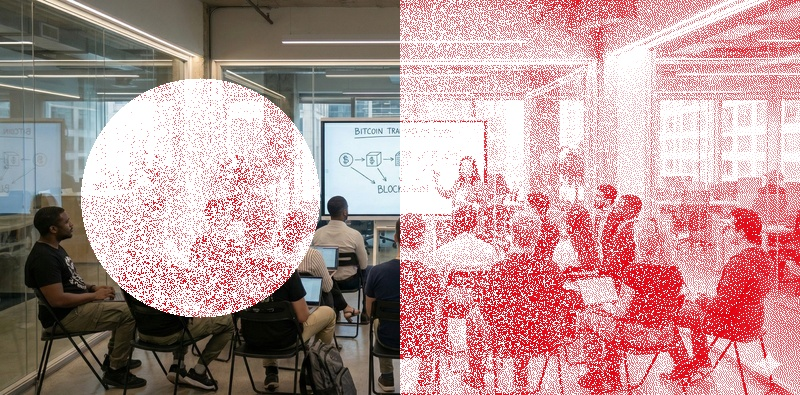
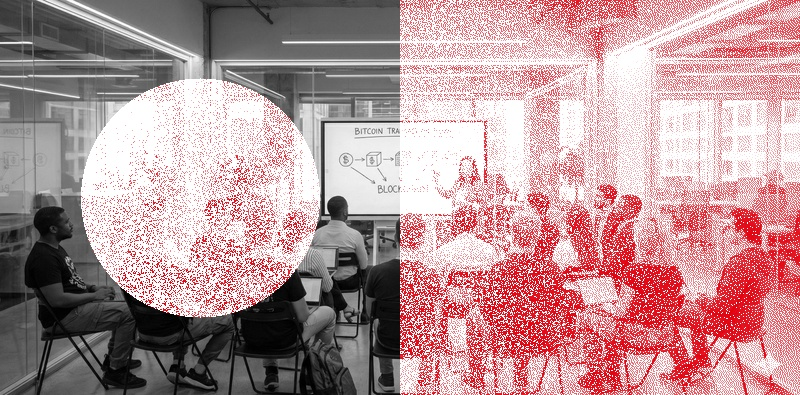
Update Examples 9, 10, and 11 to use grayscale
- Modified `generate-examples.sh` to add `--grayscale` flag to Examples 9 (Gradient Reverse), 10 (Shade Quantized), and 11 (Shade Glitch).
- Updated `README.md` command snippets for the same examples to reflect the change.
- Regenerated the example images (`example-gradient-reverse.jpg`, `example-shade-quantized.jpg`, `example-shade-quantized-glitch.jpg`) to match the new settings.
- Verified changes with visual regression tests (where applicable) and manual inspection of the generated files.

diff --git a/README.md b/README.md
@@ -122,7 +122,7 @@ Use any angle for diagonal or custom directions.
 ### Example 9: Gradient Density (Reversed)
 
 ```bash
-./dither.sh --circle=0.25,0.5,0.2 --rect=0.5,0,1,1 --gradient=180,1.0,0.1 test-image-800px.jpg
+./dither.sh --circle=0.25,0.5,0.2 --rect=0.5,0,1,1 --gradient=180,1.0,0.1 --grayscale test-image-800px.jpg
 ```
 
 ![Gradient Reverse Example](example-gradient-reverse.jpg)
@@ -132,7 +132,7 @@ Same composition as Example 8, but with the gradient reversed (180°). The gradi
 ### Example 10: Shaded Dithering with Quantization
 
 ```bash
-./dither.sh --shade="1,q=4" test-image-800px.jpg
+./dither.sh --shade="1,q=4" --grayscale test-image-800px.jpg
 ```
 
 ![Shaded Quantized Example](example-shade-quantized.jpg)
@@ -148,7 +148,7 @@ In this example, `q=4` restricts the red dots to just 4 distinct shades of inten
 ### Example 11: Shaded Dithering with Quantization and Glitch
 
 ```bash
-./dither.sh --shade="1,q=4" --glitch=0.1 test-image-800px.jpg
+./dither.sh --shade="1,q=4" --glitch=0.1 --grayscale test-image-800px.jpg
 ```
 
 ![Shaded Quantized Glitch Example](example-shade-quantized-glitch.jpg)
